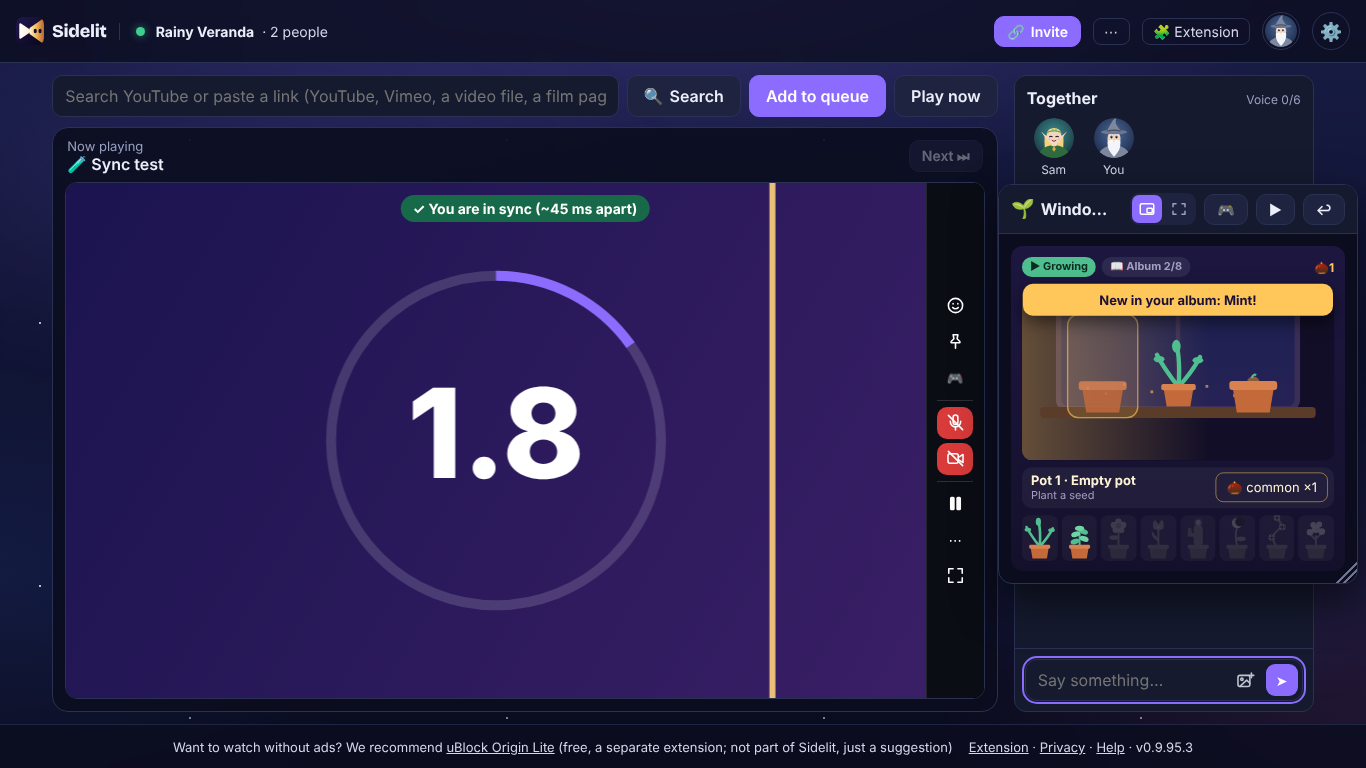
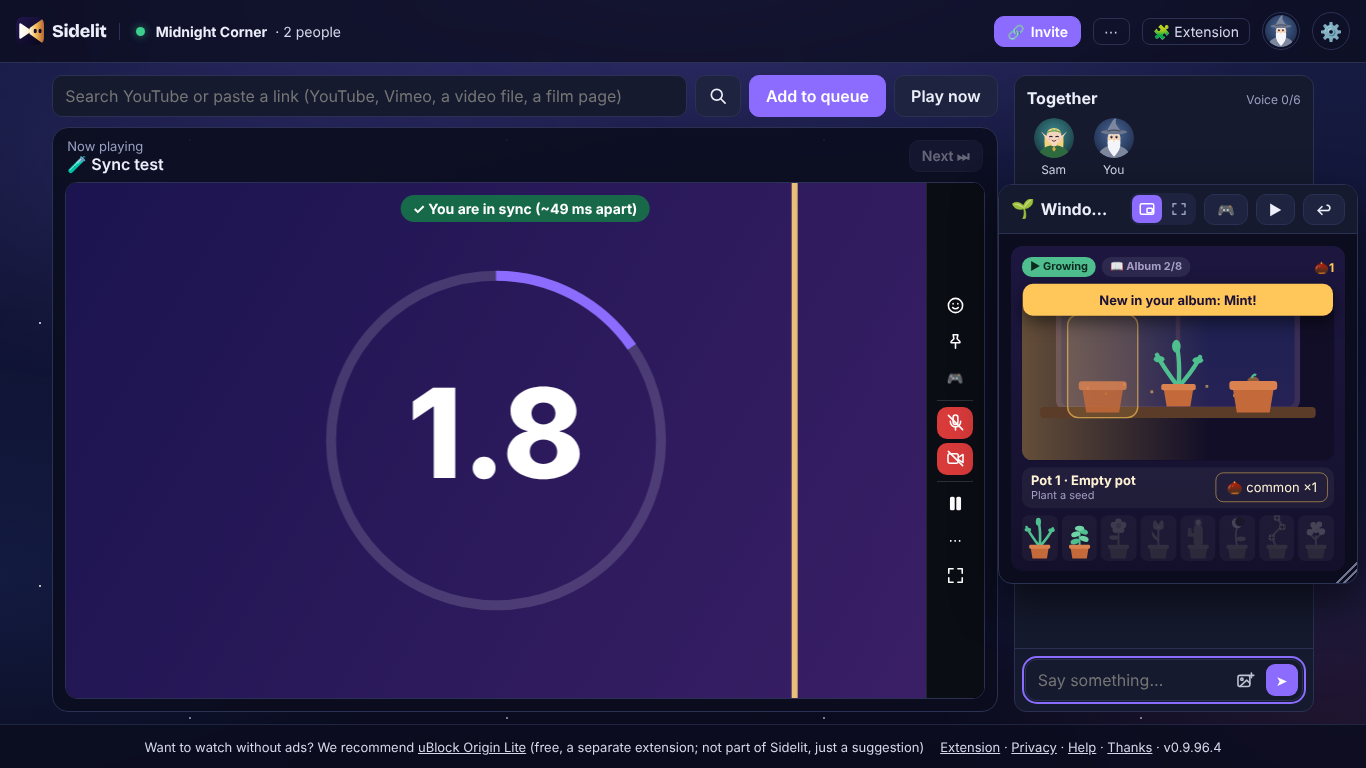
WIP card 6g

diff --git a/apps/web/src/ui/cam-float.ts b/apps/web/src/ui/cam-float.ts
@@ -110,8 +110,6 @@ export function createCamWindow(opts: {
 
   const grid = el('div', { class: 'cam-grid' });
   const title = el('span', { class: 'cam-bar-title' });
-  const popButton = el('button', { type: 'button', class: 'btn small-btn cam-pop' });
-  const dockButton = el('button', { type: 'button', class: 'cam-btn cam-dock-btn' }, '⤓');
   const foldButton = el('button', { type: 'button', class: 'cam-btn cam-fold' });
   const hiddenButton = el('button', { type: 'button', class: 'cam-btn cam-hidden-btn' });
   const lineUpButton = el('button', { type: 'button', class: 'cam-btn cam-lineup' }, '⊞');
@@ -127,7 +125,6 @@ export function createCamWindow(opts: {
     resetButton,
     layoutButton,
     foldButton,
-    dockButton,
   );
   const resize = el('span', { class: 'cam-resize', 'aria-hidden': 'true' });
   /** Free layout: the bar in one small draggable pill. */
@@ -143,9 +140,11 @@ export function createCamWindow(opts: {
   };
   setPillScale(pillScale);
 
-  let floatOn = load('opt:camFloat') === '1';
+  // Card 6g.7 (owner, like Meet): cameras start in their own window, never as tiles in the Together card (the chat keeps
+  // its height), in the one-window layout. A saved "free" is only ever written by the person pressing the switch (the
+  // old default was never saved), so it is kept.
   let folded = load('opt:camFolded') === '1';
-  let layout: 'free' | 'group' = load('opt:camLayout') === 'group' ? 'group' : 'free';
+  let layout: 'free' | 'group' = load('opt:camLayout') === 'free' ? 'free' : 'group';
   let spots = { normal: readSpot('camFloat:spot', NORMAL_DEFAULT), fs: readSpot('camFloat:fsSpot', FS_DEFAULT) };
   const tileSpots = { normal: readTiles('camTiles:spot'), fs: readTiles('camTiles:fsSpot') };
   let pillSpots: { normal: Spot | null; fs: Spot | null } = {
@@ -157,7 +156,7 @@ export function createCamWindow(opts: {
   let front = 1;
 
   const isFs = () => theater.matches(':fullscreen, .fake-fs');
-  const mode = (): 'card' | 'float' | 'fs' => (isFs() ? 'fs' : floatOn ? 'float' : 'card');
+  const mode = (): 'card' | 'float' | 'fs' => (isFs() ? 'fs' : 'float');
   const isFree = () => layout === 'free' && mode() !== 'card';
   const where = (): 'normal' | 'fs' => (mode() === 'fs' ? 'fs' : 'normal');
   /** Size of what floating pieces live in: the page, or the video box in fullscreen. */
@@ -173,9 +172,6 @@ export function createCamWindow(opts: {
       button.title = text;
       button.setAttribute('aria-label', text);
     };
-    set(popButton, t('cam.float'));
-    popButton.textContent = `⧉ ${t('cam.popShort')}`;
-    set(dockButton, t('cam.dock'));
     foldButton.textContent = folded ? '＋' : '−';
     set(foldButton, t(folded ? 'cam.expand' : 'cam.collapse'));
     hiddenButton.hidden = hiddenCount === 0;
@@ -354,10 +350,10 @@ export function createCamWindow(opts: {
     if (free) {
       if (pill.parentNode !== box || bar.parentNode !== pill) {
         pill.replaceChildren(bar, pillGrip);
-        box.replaceChildren(pill, grid, popButton);
+        box.replaceChildren(pill, grid);
       }
     } else if (bar.parentNode !== box) {
-      box.replaceChildren(bar, grid, resize, popButton);
+      box.replaceChildren(bar, grid, resize);
     }
     // Only while there is a camera (owner: the pill comes with the camera; mic and camera are on the dock).
     box.hidden = count === 0 && hiddenCount === 0;
@@ -557,16 +553,6 @@ export function createCamWindow(opts: {
     save('camPill:scale', '');
   }
 
-  popButton.addEventListener('click', () => {
-    floatOn = true;
-    save('opt:camFloat', '1');
-    place();
-  });
-  dockButton.addEventListener('click', () => {
-    floatOn = false;
-    save('opt:camFloat', '0');
-    place();
-  });
   foldButton.addEventListener('click', () => {
     folded = !folded;
     save('opt:camFolded', folded ? '1' : '0');

diff --git a/apps/web/src/i18n.ts b/apps/web/src/i18n.ts
@@ -42,8 +42,6 @@ const tr = {
   'home.s.voiceText': 'İzlerken konuşun, birbirinizi görün.',
   'home.s.games': 'Odada oyunlar',
   'home.s.gamesText': 'Videolar arasında XOX, Dört Taş, Çiz-Bil ve bilgi yarışması.',
-  'home.themes': 'Temanı seç',
-  'home.themesText': 'Birine tıkla, sayfa hemen değişsin; odan da bu temayla açılır.',
   'home.steps': 'Üç adımda',
   'home.step1': 'Oda kur',
   'home.step1Text': 'Tek tık, hesap yok.',
@@ -1110,9 +1108,6 @@ const tr = {
   'live.screenD': 'Oyun, fotoğraf, "şuna bak"',
   'live.withCam': 'Kameram da köşede görünsün',
   'cam.title': 'Kameralar',
-  'cam.float': 'Kameraları serbest bırak: istediğin yere sürükle, köşesinden boyutlandır',
-  'cam.dock': 'Karta geri koy',
-  'cam.popShort': 'Serbest bırak',
   'cam.collapse': 'Küçült',
   'cam.expand': 'Kameraları aç',
   'cam.showHidden': 'Gizlediğin {n} kamerayı göster',
@@ -1200,8 +1195,6 @@ const en: Record<Key, string> = {
   'home.s.voiceText': 'Talk and see each other while you watch.',
   'home.s.games': 'Games in the room',
   'home.s.gamesText': 'XOX, Connect Four, Draw & Guess and a quiz between videos.',
-  'home.themes': 'Pick your theme',
-  'home.themesText': 'Click one and the page changes right away; your room opens in it too.',
   'home.steps': 'Three steps',
   'home.step1': 'Create a room',
   'home.step1Text': 'One click, no account.',
@@ -2268,9 +2261,6 @@ const en: Record<Key, string> = {
   'live.screenD': 'A game, photos, "look at this"',
   'live.withCam': 'Show my camera in the corner too',
   'cam.title': 'Cameras',
-  'cam.float': 'Pop the cameras out: drag them anywhere, resize from the corner',
-  'cam.dock': 'Put back in the card',
-  'cam.popShort': 'Pop out',
   'cam.collapse': 'Minimize',
   'cam.expand': 'Show cameras',
   'cam.showHidden': 'Show the {n} cameras you hid',

diff --git a/apps/web/src/home.ts b/apps/web/src/home.ts
@@ -5,7 +5,6 @@ import { cleanRoomName, ROOM_NAME_MAX } from '@swm/shared/protocol';
 import { forgetSaved, isFull, MAX_SAVED, savedRooms, type SavedRoom } from './saved-rooms.ts';
 import { forgetLastRoom, lastRoom, load, sessionSave } from './storage.ts';
 import { t, translate } from './i18n.ts';
-import { renderThemeStrip } from './themes.ts';
 
 /**
  * Ana sayfa ("Vitrin"): solda başlık ve tek adımlık form (isteğe bağlı video linki + Oda oluştur), sağda temanın
@@ -67,14 +66,6 @@ export function renderHome(app: HTMLElement): void {
       <div><span class="strip-icon" aria-hidden="true">🎮</span><b data-i18n="home.s.games"></b><span class="muted" data-i18n="home.s.gamesText"></span></div>
     </section>
 
-    <section class="home-themes">
-      <div class="home-themes-head">
-        <h2 data-i18n="home.themes"></h2>
-        <p class="muted" data-i18n="home.themesText"></p>
-      </div>
-      <nav id="theme-strip" class="theme-strip all" role="radiogroup" aria-label="Theme"></nav>
-    </section>
-
     <section id="recent" class="recent home-recent" hidden>
       <h3 data-i18n="savedRooms"></h3>
       <ul id="recent-list"></ul>
@@ -123,7 +114,6 @@ export function renderHome(app: HTMLElement): void {
     </section>
   `;
   translate(app);
-  renderThemeStrip(app.querySelector<HTMLElement>('#theme-strip')!, { all: true });
   // On a phone the home page is an app start screen (0.9.92.5, pick 11A, phone.css `in-home`): create, join with a
   // code and the saved rooms; the introduction opens with "How does it work?".
   document.documentElement.classList.add('in-home');

diff --git a/apps/web/src/room.ts b/apps/web/src/room.ts
@@ -87,6 +87,7 @@ import { createToasts } from './ui/toasts.ts';
 import { playSound, setFilmPlaying } from './sound.ts';
 import { clearTvLink, tvLab, tvLink } from './tv-lab.ts';
 import { setDebugRoom } from './debug-lab.ts';
+import { icon } from './ui/icons.ts';
 import type { createTvRemote } from './ui/tv-remote.ts';
 import { createPhoneRoom } from './ui/phone-room.ts';
 import type { createTvRoom } from './ui/tv-room.ts';
@@ -297,7 +298,7 @@ function startRoom(app: HTMLElement, roomId: string, myName: string, myAvatar: A
       <div class="stage">
         <form id="media-form" class="media-form">
           <input id="media-input" autocomplete="off" data-i18n-placeholder="mediaPlaceholder" data-i18n-title="mediaLabel" />
-          <button class="btn media-search" value="search" data-i18n-title="searchButton"><span aria-hidden="true">🔍</span> <span data-i18n="searchButton"></span></button>
+          <button class="btn media-search" value="search" data-i18n-title="searchButton"></button>
           <button class="btn primary" value="enqueue" data-i18n="addToQueue"></button>
           <button class="btn" value="load" data-i18n="playNow"></button>
         </form>
@@ -2731,6 +2732,7 @@ function startRoom(app: HTMLElement, roomId: string, myName: string, myAvatar: A
   });
 
   const mediaForm = $<HTMLFormElement>('#media-form');
+  mediaForm.querySelector('.media-search')?.append(icon('search'));
   // Words instead of a link: search YouTube (the results open under the box).
   const search = createSearch(
     mediaForm,

diff --git a/apps/web/src/styles.css b/apps/web/src/styles.css
@@ -12284,8 +12284,7 @@ html:not(.phone) .theater.side-rail.dock-mode :is(.player, .fs-catcher, .empty, 
 }
 
 html:not(.phone) .theater.side-rail.dock-mode:is(:not(.dock-idle), :has(.fs-dock:hover, .dock-pop:not([hidden]))) :is(.player, .fs-catcher, .empty, .overlay),
-html.is-touch:not(.phone, .has-mouse) .theater.side-rail.dock-mode :is(.player, .fs-catcher, .empty, .overlay),
-.theater.side-rail.rail-bare.dock-mode :is(.player, .fs-catcher, .empty, .overlay) {
+html.is-touch:not(.phone, .has-mouse) .theater.side-rail.dock-mode :is(.player, .fs-catcher, .empty, .overlay) {
   right: var(--rail-w);
 }
 
@@ -12328,20 +12327,17 @@ html:not(.phone) .theater.side-rail.dock-mode .dock-group + .dock-group {
 }
 
 /* 🔍 Search in the link box (0.9.92.8, owner: "people won't know Enter searches"). Icon only on narrower screens. */
+/* Card 6g.6 (owner): a drawn lens only, so the link box keeps its width; its name stays for screen readers. */
 .media-search {
   display: inline-flex;
   align-items: center;
-  gap: 6px;
+  justify-content: center;
+  padding-inline: 12px;
 }
 
-@media (max-width: 1180px) {
-  .media-search span:last-child {
-    display: none;
-  }
-}
-
-html.phone .media-search span:last-child {
-  display: none;
+.media-search svg {
+  width: 20px;
+  height: 20px;
 }
 
 /* YouTube: the room's notes and cards sit at the top of the chat panel (or above the video with the side panel

diff --git a/apps/web/src/ui/icons.ts b/apps/web/src/ui/icons.ts
@@ -31,7 +31,8 @@ export type IconName =
   | 'play'
   | 'pause'
   | 'volume'
-  | 'volume-off';
+  | 'volume-off'
+  | 'search';
 
 type Shape = [tag: 'path' | 'rect' | 'line' | 'circle', attrs: Record<string, string | number>];
 
@@ -78,6 +79,8 @@ const ICONS: Record<IconName, Shape[]> = {
   play: [['path', { d: 'M7 4.5v15l12.5-7.5z', fill: 'currentColor' }]],
   pause: [['rect', { x: 6, y: 4.5, width: 4, height: 15, rx: 1, fill: 'currentColor' }], ['rect', { x: 14, y: 4.5, width: 4, height: 15, rx: 1, fill: 'currentColor' }]],
   volume: [['path', { d: 'M4 9.5h3.5L12 5.5v13l-4.5-4H4z' }], ['path', { d: 'M15.5 9a4.5 4.5 0 0 1 0 6' }], ['path', { d: 'M18 6.5a8 8 0 0 1 0 11' }]],
+  // Search in the link box (card 6g.6): a lens with a short handle.
+  search: [['circle', { cx: 10.5, cy: 10.5, r: 6.5 }], ['line', { x1: 15.3, y1: 15.3, x2: 20.5, y2: 20.5 }]],
   'volume-off': [['path', { d: 'M4 9.5h3.5L12 5.5v13l-4.5-4H4z' }], ['line', { x1: 16, y1: 9.5, x2: 21, y2: 14.5 }], ['line', { x1: 21, y1: 9.5, x2: 16, y2: 14.5 }]],
   // Add a GIF / photo (custom emojis, chat pictures; 0.9.91.5 instead of 🖼): a picture with a small plus.
   'image-add': [

diff --git a/apps/web/src/ui/fullscreen.ts b/apps/web/src/ui/fullscreen.ts
@@ -359,7 +359,9 @@ export function createFullscreen({ shell = false, ownControls = () => true, onAc
   // Without the edge (film page, touch screens) a paused video keeps it too. A button's focus after a click no longer
   // does (0.9.93.6: after 🎙 / 📷 / ⋯ the rail stayed for good), only a keyboard user's (railBusy).
   // Always out with nothing playing (card 2: nothing to cover). The film page waits for the edge since card 2b.
-  const railFixed = () => !getPlayer();
+  // Card 6g.1 (owner: "it should not behave differently in each place"): the empty room's rail waits at the edge like
+  // the rail with a video; it stays out only where there is no edge mode (touch screens without a mouse).
+  const railFixed = () => !getPlayer() && !edgeMode();
   const dockBusy = () => railFixed() || (edgeMode() ? nearEdge || railBusy() : railBusy() || getPlayer()?.isPaused() === true);
   function sleepDock(): void {
     if (dockTimer !== null) clearTimeout(dockTimer);

diff --git a/apps/web/src/ui/room-more.ts b/apps/web/src/ui/room-more.ts
@@ -27,7 +27,8 @@ export function roomMoreItems(deps: {
   hasItem: () => boolean;
   desktop: boolean;
 }): MoreItem[] {
-  const items: MoreItem[] = [{ icon: '🎮', label: 'more.games', run: deps.games }];
+  // Card 6g.2 (owner: "not in two places"): on a computer the rail's 🎮 is the one way to the games; phones have no rail.
+  const items: MoreItem[] = deps.desktop ? [] : [{ icon: '🎮', label: 'more.games', run: deps.games }];
   if (deps.isHost()) items.push({ icon: '⏰', label: 'more.filmTime', run: () => deps.openSettings('schedule') });
   items.push(
     { icon: '💾', label: 'more.save', run: () => deps.openSettings('save') },
